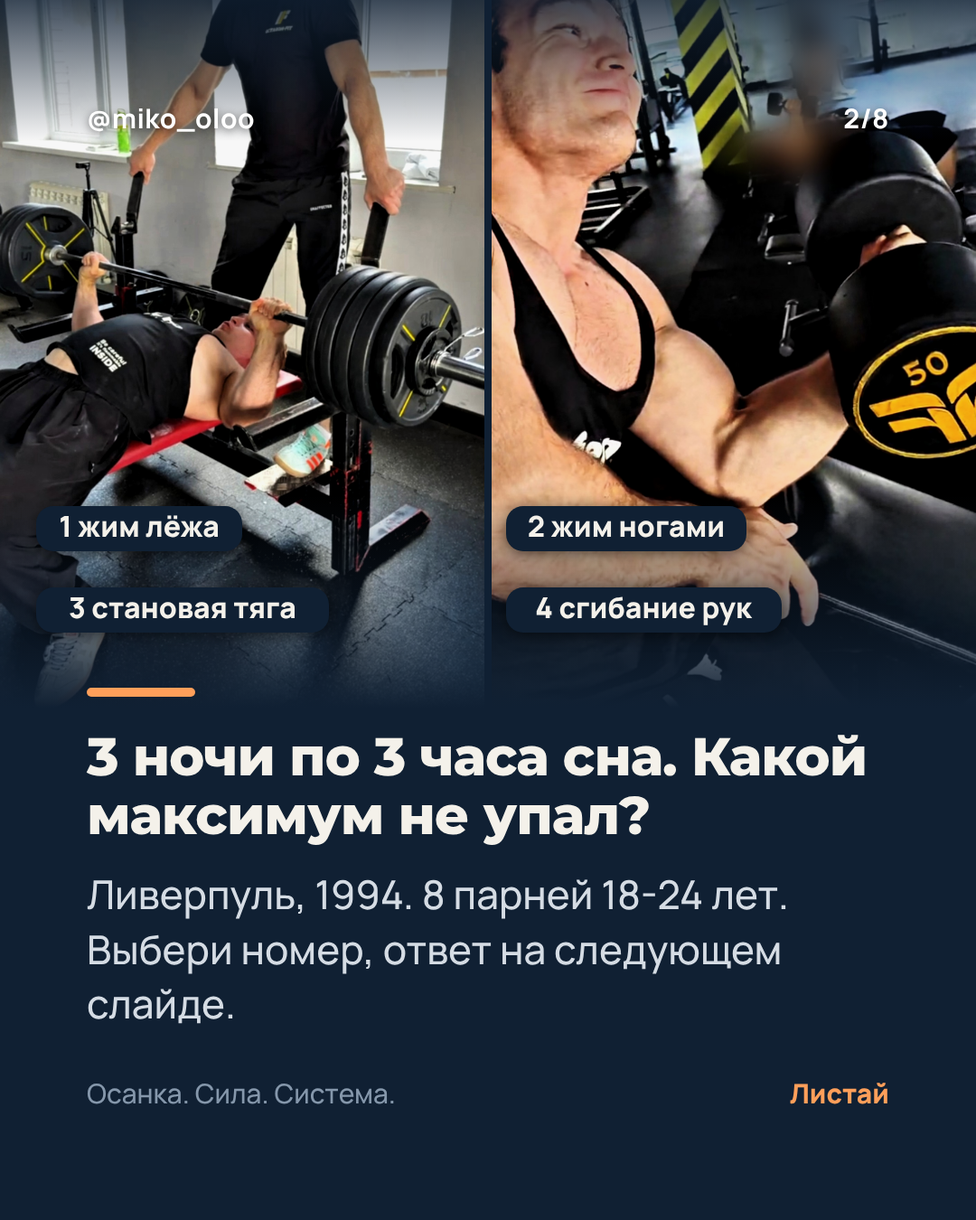
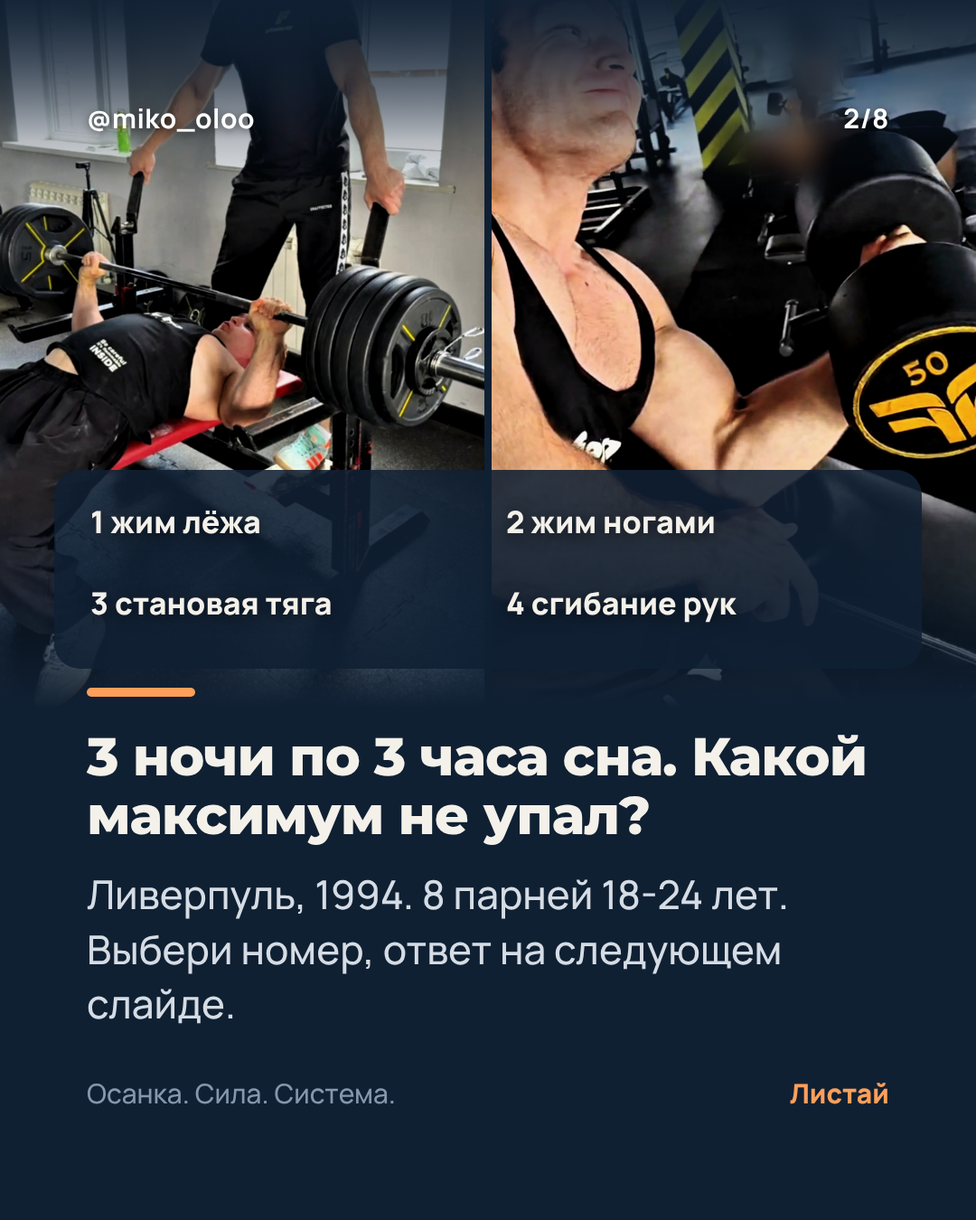
Карусели c5-c7: правки visual-qa (пометки на теле, угол C7, крупные подписи схем, варианты вопроса в плашке, новые кадры)
Claude-Session: https://claude.ai/code/session_014b6iEBjPGyacsH4fnBbVwQ

diff --git a/content/carousels/build_18-11.py b/content/carousels/build_18-11.py
@@ -71,6 +71,11 @@ def panel(x, y, w, h, op=0.72):
     return f'<rect x="{x}" y="{y}" width="{w}" height="{h}" rx="28" fill="{BG}" fill-opacity="{op}"/>'
 
 
+def topfade(w, h=230):
+    return (f'<defs><linearGradient id="tf" x1="0" y1="0" x2="0" y2="1"><stop offset="0" stop-color="{BG}" stop-opacity=".85"/>'
+            f'<stop offset="1" stop-color="{BG}" stop-opacity="0"/></linearGradient></defs><rect x="0" y="0" width="{w}" height="{h}" fill="url(#tf)"/>')
+
+
 def svg(w, h, *parts):
     return {'type': 'svg', 'w': w, 'h': h, 'svg': ''.join(parts)}
 
@@ -113,12 +118,17 @@ def prep():
     grid_bg(f'{SRC}/bg_grid.jpg')
     crop_to(f'{DL}/px_6944004.jpg', f'{SRC}/c5_night.jpg', 0.75, focus_y=0.45)
     crop_to(f'{DL}/px_3838706.jpg', f'{SRC}/c5_tired_gym.jpg', 0.75, focus_y=0.6)
+    im = Image.open(f'{SRC}/c5_tired_gym.jpg'); W_, H_ = im.size  # голова за перегородкой: размыть
+    box = (int(W_ * 0.70), int(H_ * 0.38), int(W_ * 0.88), int(H_ * 0.53))
+    im.paste(im.crop(box).filter(ImageFilter.GaussianBlur(18)), box[:2]); im.save(f'{SRC}/c5_tired_gym.jpg', quality=90)
+    from PIL import ImageOps
+    ImageOps.exif_transpose(Image.open(f'{SP}/posture/photos/IMG_9695.jpg')).convert('RGB').resize((1200, 1600), Image.LANCZOS).save(f'{SRC}/c6_cta.jpg', quality=90)
     crop_to(f'{DL}/px_18542702.jpg', f'{SRC}/c5_clock.jpg', 0.8)
     crop_to(f'{DL}/px_9615255.jpg', f'{SRC}/c5_bedroom.jpg', 0.8)
     crop_to(f'{DL}/px_13779116.jpg', f'{SRC}/c6_container.jpg', 0.8)
     # c7: подсветка мышц по силуэту
     glow(f'{B}/c7_cover_bad.jpg', f'{SRC}/c7_cover.jpg', [[40, 44, 42, 54, 5]], RED, 0.55)
-    glow(f'{B}/c7_bad.jpg', f'{SRC}/c7_bad.jpg', [[56, 48, 54, 60, 5]], RED, 0.55)
+    glow(f'{B}/c7_bad2.jpg', f'{SRC}/c7_bad.jpg', [[57, 52, 59, 62, 4.5]], RED, 0.6)
     for n in ('c7_phone', 'c7_good_side', 'c7_good_close', 'c7_protocol', 'c7_cta', 'c7_good_top'):
         Image.open(f'{B}/{n}.jpg' if os.path.exists(f'{B}/{n}.jpg') else f'{SRC}/{n}.jpg').save(f'{SRC}/{n}.jpg', quality=90)
 
@@ -126,10 +136,10 @@ def prep():
 # ---------- слайды ----------
 def c5():
     W, F = 1080, 1350
-    q = svg(W, 783,
-            pill(40, 560, '1 жим лёжа', BG, TXT, 32), pill(560, 560, '2 жим ногами', BG, TXT, 32),
-            pill(40, 650, '3 становая тяга', BG, TXT, 32), pill(560, 650, '4 сгибание рук', BG, TXT, 32))
-    ans = svg(W, 783,
+    q = svg(W, 783, topfade(W), panel(60, 520, 960, 220, 0.88),
+            text(100, 590, '1  жим лёжа', 34, TXT), text(560, 590, '2  жим ногами', 34, TXT),
+            text(100, 680, '3  становая тяга', 34, TXT), text(560, 680, '4  сгибание рук', 34, TXT))
+    ans = svg(W, 783, topfade(W),
               arrow(270, 240, 270, 470, RED, 14, 44), pill(268, 500, 'максимум упал', RED, TXT, 32, 'middle'),
               line(760, 330, 860, 330, A, 14), line(760, 375, 860, 375, A, 14), pill(810, 500, 'без изменений', A, BG, 32, 'middle'))
     # ночи: 3 часа сна из обычных 8
@@ -138,45 +148,45 @@ def c5():
         nights += [text(x, 205, f'ночь {i + 1}', 34, TXT, 800, 'middle'),
                    f'<rect x="{x - 45}" y="230" width="90" height="220" rx="20" fill="{MUTED}" fill-opacity=".35"/>',
                    f'<rect x="{x - 45}" y="368" width="90" height="82" rx="20" fill="{A}"/>',
-                   text(x, 492, '3 ч сна', 28, SOFT, 700, 'middle')]
+                   text(x, 495, '3 ч сна', 32, SOFT, 800, 'middle')]
         nights += ([line(x - 30, 548, x + 30, 548, SOFT, 10), line(x - 30, 576, x + 30, 576, SOFT, 10)] if i == 0
                    else [arrow(x, 522, x, 610, RED, 12, 36)])
-    nights += [text(540, 660, 'вес на 20 повторений', 30, MUTED, 700, 'middle')]
+    nights += [text(540, 662, 'вес на 20 повторений', 32, SOFT, 800, 'middle')]
     tl = svg(W, F, panel(70, 145, 940, 545), *nights)
     bars = svg(W, F, panel(70, 170, 940, 360),
-               text(110, 240, 'все виды нагрузки', 30, SOFT, 700), f'<rect x="110" y="262" width="760" height="56" rx="14" fill="{A}"/>',
+               text(110, 240, 'все виды нагрузки', 32, SOFT, 800), f'<rect x="110" y="262" width="760" height="56" rx="14" fill="{A}"/>',
                text(890, 302, '7,6%', 34, TXT, 800),
-               text(110, 395, 'сила', 30, SOFT, 700), f'<rect x="110" y="417" width="285" height="56" rx="14" fill="{A}" fill-opacity=".75"/>',
+               text(110, 395, 'сила', 32, SOFT, 800), f'<rect x="110" y="417" width="285" height="56" rx="14" fill="{A}" fill-opacity=".75"/>',
                text(415, 457, 'около 3%', 34, TXT, 800))
     # окно сна: ось 22-8, пример
     x0, step = 130, 82  # 22:00 -> x0, шаг 1 час
     hx = lambda h: x0 + ((h - 22) % 24) * step
     axis = [line(hx(22), 300, hx(8), 300, MUTED, 4)]
     for h in (22, 0, 2, 4, 6, 8):
-        axis += [line(hx(h), 290, hx(h), 310, MUTED, 4), text(hx(h), 275, str(h), 26, MUTED, 700, 'middle')]
-    rows = [('обычный сон', 23, 7, SOFT, None, None), ('встал раньше', 23, 4, A, 'просадка стабильная', A),
-            ('лёг позже', 3, 7, A, 'эффект нестабильный', MUTED)]
+        axis += [line(hx(h), 290, hx(h), 310, MUTED, 4), text(hx(h), 272, str(h), 32, SOFT, 800, 'middle')]
+    rows = [('обычный сон', 23, 7, SOFT, None, None), ('встал раньше', 23, 4, A, 'стабильно хуже', A),
+            ('лёг позже', 3, 7, A, 'нестабильно', SOFT)]
     for i, (lab, a, b, col, tag, tcol) in enumerate(rows):
         y = 370 + i * 125
-        axis += [text(hx(22), y, lab, 30, TXT, 800), f'<rect x="{hx(a):.0f}" y="{y + 14}" width="{hx(b) - hx(a):.0f}" height="38" rx="12" fill="{col}"/>']
+        axis += [text(hx(22), y, lab, 32, TXT, 800), f'<rect x="{hx(a):.0f}" y="{y + 14}" width="{hx(b) - hx(a):.0f}" height="38" rx="12" fill="{col}"/>']
         if tag:
-            axis += [pill(hx(8), y - 30, tag, tcol, BG if tcol == A else TXT, 26, 'end')]
-    axis += [text(hx(8), 215, 'пример', 26, MUTED, 700, 'end')]
+            axis += [pill(hx(8), y - 34, tag, tcol, BG, 30, 'end')]
+    axis += [text(hx(8), 215, 'пример', 30, MUTED, 800, 'end')]
     win = svg(W, F, panel(70, 170, 940, 590), *axis)
     # шкала решений Микаела: 3-9 часов
     sx = lambda h: 110 + (h - 3) * 143.3
     sc = [panel(70, 150, 940, 640),
-          text(110, 220, 'сколько спал', 30, MUTED, 700),
+          text(110, 220, 'сколько спал, часов', 32, SOFT, 800),
           f'<rect x="{sx(3):.0f}" y="245" width="{sx(5) - sx(3):.0f}" height="60" rx="14" fill="{RED}"/>',
           f'<rect x="{sx(5):.0f}" y="245" width="{sx(7) - sx(5):.0f}" height="60" fill="{A}"/>',
           f'<rect x="{sx(7):.0f}" y="245" width="{sx(9) - sx(7):.0f}" height="60" rx="14" fill="{SOFT}"/>']
     for h in range(3, 10):
-        sc += [text(sx(h), 345, f'{h}', 28, TXT, 800, 'middle')]
-    for xa, lines_, col in ((sx(4), ['меньше 5 ч', 'тяжёлый день', 'меняю на', 'средний,', 'все рабочие', 'минус 5%'], RED),
-                            (sx(6), ['меньше 7 ч', 'в тяжёлый', 'и средний', 'день верхний', 'вес минус 3%'], A),
-                            (sx(8), ['7 ч и больше', 'по плану'], SOFT)):
+        sc += [text(sx(h), 350, f'{h}', 32, TXT, 800, 'middle')]
+    for xa, lines_, col in ((sx(4), ['меньше 5', 'средний', 'вместо', 'тяжёлого,', 'все рабочие', 'минус 5%'], RED),
+                            (sx(6), ['меньше 7', 'верхний вес', 'минус 3%'], A),
+                            (sx(8), ['7 и больше', 'по плану'], SOFT)):
         for j, l in enumerate(lines_):
-            sc += [text(xa, 410 + j * 40, l, 30 if j == 0 else 27, col if j == 0 else TXT, 800 if j == 0 else 700, 'middle')]
+            sc += [text(xa, 420 + j * 46, l, 34 if j == 0 else 31, col if j == 0 else TXT, 800, 'middle')]
     scale = svg(W, F, *sc)
     return [
         {'layout': 'photo-top', 'photoHeight': 66, 'big': True, 'photo': 'src/c5_night.jpg', 'focus': '40% 50%',
@@ -193,7 +203,7 @@ def c5():
         {'layout': 'big-number', 'photo': 'src/bg_grid.jpg', 'focus': '50% 50%',
          'title': 'Важно, как именно не доспал', 'body': 'Ранний подъём бьёт стабильно, поздний отбой нестабильно. До полудня результат почти не страдал, во второй половине дня проседал.', 'marks': [win]},
         {'layout': 'big-number', 'photo': 'src/c5_gym_phone.jpg', 'focus': '50% 40%',
-         'title': 'Мои правила для клиентов', 'body': 'Онлайн-клиент перед каждой тренировкой пишет, сколько спал. Нагрузку правлю по этой шкале.', 'marks': [scale]},
+         'title': 'Мои правила для клиентов', 'body': 'Онлайн-клиент перед каждой тренировкой пишет, сколько спал. Меньше 7 часов: правка в тяжёлый и средний день.', 'marks': [scale]},
         {'layout': 'cta-photo', 'photo': 'src/c5_smile.jpg', 'focus': '50% 30%',
          'title': 'А ты сколько спал сегодня?', 'body': 'Найди себя на шкале и пиши цифру в комментариях. Сохрани, чтобы проверить себя перед тяжёлой тренировкой.'},
     ]
@@ -215,24 +225,24 @@ def c6():
     fast = ' '.join(f'{dx(d):.0f},{cy0 - chh * 0.85 * min(1, (1 - (0.5 ** (d / 1.6))) / (1 - 0.5 ** (6 / 1.6))):.0f}' for d in [x / 2 for x in range(0, 57)])
     slow = ' '.join(f'{dx(d):.0f},{cy0 - chh * 0.85 * min(1, (1 - (0.5 ** (d / 8.5))) / (1 - 0.5 ** (28 / 8.5))):.0f}' for d in [x / 2 for x in range(0, 57)])
     ld = svg(W, F, panel(70, 170, 940, 590),
-             text(110, 230, 'креатин в мышцах', 30, MUTED, 700),
+             text(110, 230, 'креатин в мышцах', 32, SOFT, 800),
              line(cx0, cy0, cx0 + cw, cy0, MUTED, 4), line(cx0, cy0, cx0, cy0 - chh, MUTED, 4),
              line(cx0, lvl, cx0 + cw, lvl, SOFT, 4, '14 12'),
-             *[text(dx(d), cy0 + 45, str(d), 26, MUTED, 700, 'middle') for d in (0, 7, 14, 21, 28)],
-             text(cx0 + cw, cy0 + 85, 'дней', 26, MUTED, 700, 'end'),
+             *[text(dx(d), cy0 + 48, str(d), 32, SOFT, 800, 'middle') for d in (0, 7, 14, 21, 28)],
+             text(cx0, cy0 + 92, 'дни', 30, MUTED, 800),
              f'<polyline points="{slow}" fill="none" stroke="{SOFT}" stroke-width="9" stroke-linecap="round" {SH}/>',
              f'<polyline points="{fast}" fill="none" stroke="{A}" stroke-width="9" stroke-linecap="round" {SH}/>',
-             pill(dx(7.5), lvl + 22, '20 г в день: 6 дней', A, BG, 28), pill(dx(28), lvl + 120, '3 г в день: 28 дней', SOFT, BG, 28, 'end'),
-             text(dx(28), lvl - 16, 'тот же уровень', 26, SOFT, 700, 'end'))
+             pill(dx(7.5), lvl + 22, '20 г в день', A, BG, 32), pill(dx(28), lvl + 120, '3 г в день', SOFT, BG, 32, 'end'),
+             text(dx(28), lvl - 16, 'тот же уровень', 32, SOFT, 800, 'end'))
     pr = svg(W, F, panel(70, 200, 940, 470),
              line(110, 450, 970, 450, MUTED, 5),
              f'<rect x="390" y="395" width="300" height="110" rx="22" fill="none" stroke="{A}" stroke-width="7"/>',
              text(540, 463, 'тренировка', 34, TXT, 800, 'middle'),
-             dot(300, 450, 34, A), text(300, 375, 'до', 30, A, 800, 'middle'), text(300, 560, 'протеин', 28, TXT, 700, 'middle'),
-             dot(780, 450, 34, A), text(780, 375, 'после', 30, A, 800, 'middle'), text(780, 560, 'протеин', 28, TXT, 700, 'middle'),
-             text(780, 600, 'креатин 5 г', 28, TXT, 700, 'middle'),
+             dot(300, 450, 34, A), text(300, 375, 'до', 30, A, 800, 'middle'), text(300, 560, 'протеин', 32, TXT, 800, 'middle'),
+             dot(780, 450, 34, A), text(780, 375, 'после', 30, A, 800, 'middle'), text(780, 560, 'протеин', 32, TXT, 800, 'middle'),
+             text(780, 604, 'креатин 5 г', 32, TXT, 800, 'middle'),
              dot(150, 450, 16, MUTED), dot(930, 450, 16, MUTED), text(150, 300, 'еда', 30, MUTED, 800, 'middle'), text(930, 300, 'еда', 30, MUTED, 800, 'middle'),
-             text(540, 270, 'вне тренировки протеин не пью', 28, MUTED, 700, 'middle'))
+             text(540, 270, 'вне тренировки протеин не пью', 32, SOFT, 800, 'middle'))
     # белок: перелом около 1,6 г/кг (Morton 2018)
     gx0, gy0, gw, gh = 150, 455, 820, 170
     gx = lambda g: gx0 + (g - 0.8) / 1.8 * gw
@@ -240,11 +250,11 @@ def c6():
     curve = ' '.join(f'{gx(g):.0f},{gy0 - gh * (min(g, 1.6) - 0.8) / 0.8 * 0.85 - gh * 0.15 * (1 - math.exp(-(max(g, 1.6) - 1.6) * 2)):.0f}' for g in [0.8 + i * 0.05 for i in range(37)])
     pro = svg(W, F, panel(70, 178, 940, 372),
               f'<rect x="{gx(1.8):.0f}" y="{gy0 - gh - 10}" width="{gx(2.2) - gx(1.8):.0f}" height="{gh + 10}" fill="{A}" fill-opacity=".22"/>',
-              text((gx(1.8) + gx(2.2)) / 2, gy0 - gh - 25, 'сушка', 28, A, 800, 'middle'),
+              text((gx(1.8) + gx(2.2)) / 2, gy0 - gh - 25, 'сушка', 32, A, 800, 'middle'),
               line(gx0, gy0, gx0 + gw, gy0, MUTED, 4), line(gx(1.6), gy0, gx(1.6), gy0 - gh, SOFT, 4, '12 10'),
               f'<polyline points="{curve}" fill="none" stroke="{A}" stroke-width="9" stroke-linecap="round" {SH}/>',
-              *[text(gx(g), gy0 + 42, f'{g:.1f}'.replace('.', ','), 26, SOFT if g != 1.6 else A, 800, 'middle') for g in (0.8, 1.2, 1.6, 2.0, 2.4)],
-              text(110, 228, 'прирост безжировой массы', 28, MUTED, 700), text(gx0 + gw, gy0 + 78, 'г белка на кг в день', 24, MUTED, 700, 'end'))
+              *[text(gx(g), gy0 + 46, f'{g:.1f}'.replace('.', ','), 32, SOFT if g != 1.6 else A, 800, 'middle') for g in (0.8, 1.2, 1.6, 2.0, 2.4)],
+              text(110, 228, 'прирост безжировой массы', 32, SOFT, 800))
     names = ['лейцин', 'изолейцин', 'валин', 'лизин', 'метионин', 'фенилаланин', 'треонин', 'триптофан', 'гистидин']
 
     def aa(hl, top=235):
@@ -253,7 +263,7 @@ def c6():
             x, y = 230 + (i % 3) * 310, top + (i // 3) * 140
             on = hl is None or i in hl
             parts += [f'<circle cx="{x}" cy="{y}" r="38" fill="{A if on else "none"}" stroke="{A if on else MUTED}" stroke-width="6" {SH}/>',
-                      text(x, y + 72, n, 27, TXT if on else MUTED, 800 if on else 700, 'middle')]
+                      text(x, y + 74, n, 30, TXT if on else MUTED, 800 if on else 700, 'middle')]
         return parts
     eaa = svg(W, F, *aa(None))
     bc = aa({0, 1, 2}, 330) + [f'<rect x="100" y="262" width="880" height="180" rx="30" fill="none" stroke="{A}" stroke-width="5" stroke-dasharray="16 12"/>',
@@ -270,18 +280,18 @@ def c6():
         {'layout': 'big-number', 'photo': 'src/c6_scoop.jpg', 'focus': '45% 50%', 'number': '5 г',
          'title': 'Креатин каждый день', 'body': 'В дни отдыха тоже. В день тренировки пью после неё, вместе с протеином.', 'marks': [week]},
         {'layout': 'big-number', 'photo': 'src/c6_container.jpg', 'focus': '50% 50%',
-         'title': 'Загрузка не обязательна', 'body': 'Итог тот же, разница только в сроке (Hultman, 1996). Беру моногидрат: он изучен лучше всех форм.', 'marks': [ld]},
+         'title': 'Загрузка не обязательна', 'body': '20 г в день выходят на уровень за 6 дней, 3 г за 28. Итог тот же (Hultman, 1996). Беру моногидрат: он изучен лучше всех форм.', 'marks': [ld]},
         {'layout': 'big-number', 'photo': 'src/mikael_pullup.jpg', 'focus': '50% 25%',
          'title': 'Протеин только вокруг тренировки', 'body': 'Порция до, порция после. Белок на остальной день добираю едой.', 'marks': [pr]},
         {'layout': 'big-number', 'photo': 'src/px_1640777.jpg', 'focus': '50% 50%', 'number': '1,6 г',
-         'title': 'Белок за день важнее всего', 'body': 'Метаанализ 2018 года, 49 исследований. Для максимума до 2,2 г. На сушке беру 1,8-2,2 г.', 'marks': [pro]},
+         'title': 'Белок за день важнее всего', 'body': 'Белка на кг массы тела в день. Метаанализ 2018 года, 49 исследований. Для максимума до 2,2 г, на сушке беру 1,8-2,2 г.', 'marks': [pro]},
         {'layout': 'big-number', 'photo': 'src/bg_grid.jpg', 'focus': '50% 50%', 'number': '10-15 г',
          'title': 'EAA во время тренировки', 'body': 'Все 9 незаменимых аминокислот. Пью по ходу тренировки.', 'marks': [eaa]},
         {'layout': 'big-number', 'photo': 'src/bg_grid.jpg', 'focus': '50% 50%',
          'title': 'BCAA не беру', 'body': 'Это 3 из 9 незаменимых аминокислот. Для синтеза мышечного белка нужны все 9. Поэтому если пить аминокислоты, то полный набор EAA.', 'marks': [bcaa]},
         {'layout': 'big-number', 'photo': 'src/c6_container.jpg', 'focus': '30% 50%',
          'title': 'Мой день тренировки', 'body': 'Сохрани схему, чтобы не путать.', 'marks': [day]},
-        {'layout': 'cta-photo', 'photo': 'src/c6_cta.jpg', 'focus': '50% 30%',
+        {'layout': 'cta-photo', 'photo': 'src/c6_cta.jpg', 'focus': '50% 25%',
          'title': 'А ты что пьёшь?', 'body': 'Пиши в комментариях, разберу твою схему.'},
     ]
 
@@ -291,45 +301,47 @@ def c7():
     b1 = (W, 891); x, y = P(42, 37, *b1)
     cover = svg(*b1, ring(x, y, 150, 150, RED, 8), pill(P(60, 0, *b1)[0], P(0, 56, *b1)[1], 'так не даю', RED, TXT, 36))
     b2 = (W, 810)
-    bad = svg(*b2, ring(*P(54, 41, *b2), 150, 130, RED, 7), arrow(*P(61, 30, *b2), *P(44, 16, *b2), RED, 10, 34),
-              pill(*P(3, 22, *b2), 'руки тянут голову', RED, TXT, 28), pill(*P(57, 70, *b2), 'сгибание шейного отдела', RED, TXT, 30))
+    bad = svg(*b2, arrow(*P(66, 40, *b2), *P(49, 29, *b2), RED, 10, 34), pill(*P(3, 31, *b2), 'руки тянут голову', RED, TXT, 32),
+              arrow(*P(66, 76, *b2), *P(59, 62, *b2), RED, 8, 30), pill(*P(50, 78, *b2), 'сгибание шейного отдела', RED, TXT, 32))
     b3 = (W, 837)
     tr, c7p = P(51.5, 47, *b3), P(60, 57, *b3)
-    cva = svg(*b3, line(c7p[0] - 10, c7p[1], c7p[0] + 230, c7p[1], A, 6, '16 12'), line(*c7p, *tr, A, 7),
-              arc(c7p[0], c7p[1], 95, 180, 132, A, 6), dot(*tr, 13, A, BG), dot(*c7p, 13, A, BG),
-              pill(tr[0] - 20, tr[1] - 95, 'козелок уха', A, BG, 28, 'end'), pill(c7p[0] + 40, c7p[1] - 70, 'C7', A, BG, 28),
-              pill(c7p[0] - 120, c7p[1] + 40, 'краниовертебральный угол', BG, A, 26, 'end'))
+    cva = svg(*b3, line(c7p[0] - 280, c7p[1], c7p[0] + 10, c7p[1], A, 6, '16 12'), line(*c7p, *tr, A, 7),
+              arc(c7p[0], c7p[1], 110, 180, 132, A, 7), dot(*tr, 13, A, BG), dot(*c7p, 13, A, BG),
+              pill(tr[0] - 20, tr[1] - 100, 'козелок уха', A, BG, 32, 'end'), pill(c7p[0] + 40, c7p[1] - 26, 'C7', A, BG, 32),
+              pill(c7p[0] - 20, c7p[1] + 60, 'краниовертебральный угол', BG, A, 32, 'end'))
     b4 = (W, 810)
     chin, chest = P(41, 77, *b4), P(37, 90, *b4)
     good = svg(*b4, dbl(chin[0] - 30, chin[1] + 14, chest[0] - 30, chest[1] + 6, A, 6),
-               pill(*P(3, 74, *b4), 'подбородок не прижат', A, BG, 28), pill(*P(60, 58, *b4), 'шея нейтральная', A, BG, 30),
-               arrow(*P(66, 66, *b4), *P(50, 76, *b4), A, 7, 26), pill(*P(3, 20, *b4), 'блин 5-25 кг', A, BG, 30))
+               pill(*P(2, 70, *b4), 'подбородок не прижат', A, BG, 30), pill(*P(58, 56, *b4), 'шея нейтральная', A, BG, 32),
+               arrow(*P(66, 65, *b4), *P(50, 76, *b4), A, 7, 26), pill(*P(3, 27, *b4), 'блин 5-25 кг', A, BG, 32))
     b5 = (W, 810)
-    side = svg(*b5, pill(*P(3, 46, *b5), 'прямая мышца живота', A, BG, 30), arrow(*P(18, 56, *b5), *P(24, 84, *b5), A, 7, 26),
-               arc(*P(42, 80, *b5), 120, 150, 40, A, 7), pill(*P(55, 44, *b5), 'сгибание грудного отдела', A, BG, 28),
-               arrow(*P(62, 54, *b5), *P(47, 66, *b5), A, 7, 26))
+    p0, p1 = P(50, 83, *b5), P(27, 88, *b5)
+    q = P(39, 74, *b5)
+    side = svg(*b5, f'<path d="M{p0[0]:.0f} {p0[1]:.0f} Q{q[0]:.0f} {q[1]:.0f} {p1[0]:.0f} {p1[1]:.0f}" fill="none" stroke="{A}" stroke-width="9" stroke-linecap="round" stroke-dasharray="18 12" {SH}/>',
+               pill(*P(52, 42, *b5), 'сгибание грудного отдела', A, BG, 30), arrow(*P(62, 52, *b5), *P(42, 77, *b5), A, 7, 26),
+               pill(*P(2, 52, *b5), 'прямая мышца живота', A, BG, 30), arrow(*P(16, 62, *b5), *P(23, 86, *b5), A, 7, 26))
     ticks = []
     for i in range(20):
         x = 96 + i * 45; last = i == 19
         ticks += [f'<rect x="{x}" y="{400 if last else 440}" width="30" height="{110 if last else 70}" rx="8" fill="{A if last else SOFT}" fill-opacity="{1 if last else .8}" {SH}/>']
-    ticks += [pill(1000, 330, 'задержка', A, BG, 28, 'end')]
+    ticks += [pill(1000, 325, 'задержка', A, BG, 32, 'end')]
     rep = svg(W, 1350, *ticks)
-    b7 = (W, 945)
-    pts = [(1, 49.5, 25.5), (2, 54.5, 32.5), (3, 57, 43), (3, 55.5, 57), (4, 57.5, 50), (5, 52, 79), (7, 47, 42)]
+    b7 = (W, 999)
+    # координаты по кадру c7_protocol (сбоку, лицом влево): задняя поверхность тела справа
+    pts = [(1, 51, 24.5), (2, 58.5, 31), (3, 58, 57), (4, 58, 66), (3, 57, 78), (7, 44.5, 45.5)]  # стопа у нижнего края в тени, точку не ставим
     pr = []
     for n, xp, yp in pts:
         x, y = P(xp, yp, *b7)
-        pr += [dot(x, y, 24, A if n == 7 else TXT, BG), text(x, y + 10, str(n), 28, BG, 800, 'middle')]
-    leg = [('1', 'шея'), ('2', 'лопатки'), ('3', 'поясничный отдел и'), ('', 'двуглавая мышца бедра'), ('', 'через 2 недели'), ('4', 'ягодичные мышцы'),
-           ('5', 'стопа'), ('6', 'растяжка'), ('7', 'пресс в конце')]
-    pr += [panel(705, 150, 362, 490, 0.8)]
-    for i, (n, s_) in enumerate(leg):
-        yy = 200 + i * 50
-        pr += [text(725, yy, n, 26, A, 800), text(757, yy, s_, 23 if n or i == 3 else 21, A if n == '7' else (TXT if n or i == 3 else MUTED), 800 if n else 700)]
+        pr += [dot(x, y, 25, A if n == 7 else TXT, BG), text(x, y + 11, str(n), 30, BG, 800, 'middle')]
+    leg = [('1', 'шея', TXT), ('2', 'лопатки', TXT), ('3', 'поясничный отдел,', TXT), ('', 'двуглавая мышца', TXT), ('', 'бедра', TXT),
+           ('', 'через 2 недели', MUTED), ('4', 'ягодичные мышцы', TXT), ('5', 'стопа', TXT), ('6', 'растяжка', TXT), ('7', 'пресс в конце', A)]
+    pr += [panel(6, 175, 396, 560, 0.82)]
+    for i, (n, s_, col) in enumerate(leg):
+        yy = 230 + i * 52
+        pr += [text(28, yy, n, 30, A, 800), text(64, yy, s_, 30, col, 800)]
     proto = svg(*b7, *pr)
     b8 = (W, 1350)
-    cta = svg(*b8, pill(*P(68, 33, *b8), 'шея?', A, BG, 36), arrow(*P(70, 37.5, *b8), *P(55, 51, *b8), A, 7, 26),
-              pill(*P(70, 47, *b8), 'пресс?', A, BG, 36), arrow(*P(71, 51.5, *b8), *P(49, 61, *b8), A, 7, 26))
+    cta = svg(*b8, pill(*P(66, 40, *b8), 'шея?', A, BG, 38), arrow(*P(67, 44.5, *b8), *P(54, 50.5, *b8), A, 7, 26))
     return [
         {'layout': 'photo-top', 'photoHeight': 66, 'big': True, 'photo': 'src/c7_cover.jpg', 'focus': '50% 50%',
          'title': 'Качаешь пресс,\nа устаёт шея?', 'body': 'Дело в руках за головой. Моё скручивание с блином.', 'marks': [cover]},
@@ -343,7 +355,7 @@ def c7():
          'title': 'Амплитуда маленькая', 'body': 'Поднимаю голову и верх грудного отдела: это сгибание позвоночника, его делает прямая мышца живота. Выше не иду. При полном подъёме корпуса растёт доля сгибателей бедра, в том числе подвздошно-поясничной мышцы.', 'marks': [side]},
         {'layout': 'big-number', 'photo': 'src/c7_good_top.jpg', 'focus': '50% 50%', 'number': '20',
          'title': 'Повторений, задержка в последнем', 'body': 'На тренажёре для пресса под углом, голова ниже таза. Нет тренажёра: на полу, ноги согнуты в коленях.', 'marks': [rep]},
-        {'layout': 'photo-top', 'photoHeight': 70, 'photo': 'src/c7_protocol.jpg', 'focus': '50% 50%',
+        {'layout': 'photo-top', 'photoHeight': 74, 'photo': 'src/c7_protocol.jpg', 'focus': '50% 50%',
          'title': 'Пресс у меня последний', 'body': 'Протокол при переднем наклоне таза идёт сверху вниз.', 'marks': [proto]},
         {'layout': 'cta-photo', 'photo': 'src/c7_cta.jpg', 'focus': '50% 50%',
          'title': 'Проверь на себе', 'body': 'Сделай 20 скручиваний с блином. Где почувствовал: в прессе или в шее? Пиши в комментариях.', 'marks': [cta]},
